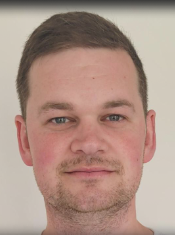
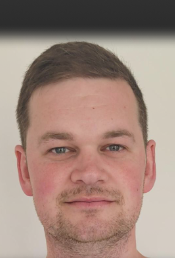
Loosen the About page headshot crop and add name/title
The previous crop was too tight on the face. Re-cropped with more
headroom and margin around the head/shoulders. Also adds "Paul
Johnson — Founder & CEO" next to the photo.

diff --git a/app/about/page.tsx b/app/about/page.tsx
@@ -20,6 +20,9 @@ export default function AboutPage() {
         <div>
           <h1 className="text-3xl font-semibold text-charcoal">About Brightbox Efficiency</h1>
           <p className="mt-1 text-sm italic text-charcoal/60">{BRAND.tagline}</p>
+          <p className="mt-2 text-sm text-charcoal/80">
+            <span className="font-medium">Paul Johnson</span> — Founder &amp; CEO
+          </p>
         </div>
       </div>
 
